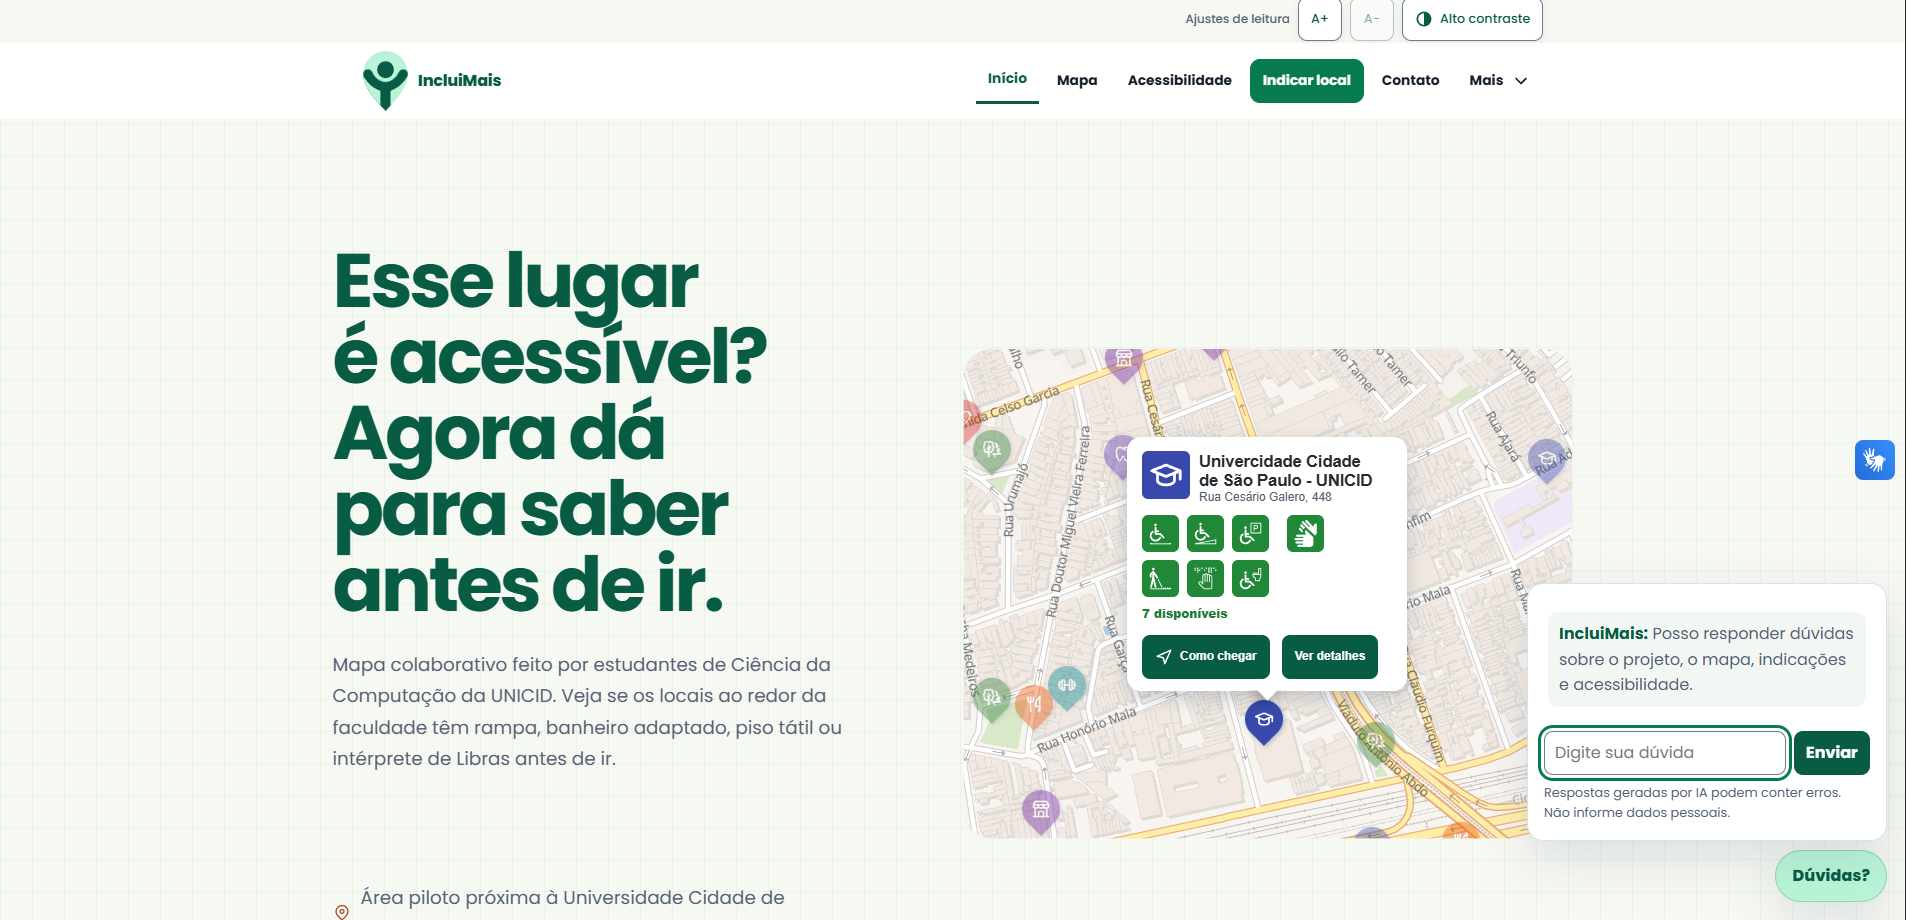
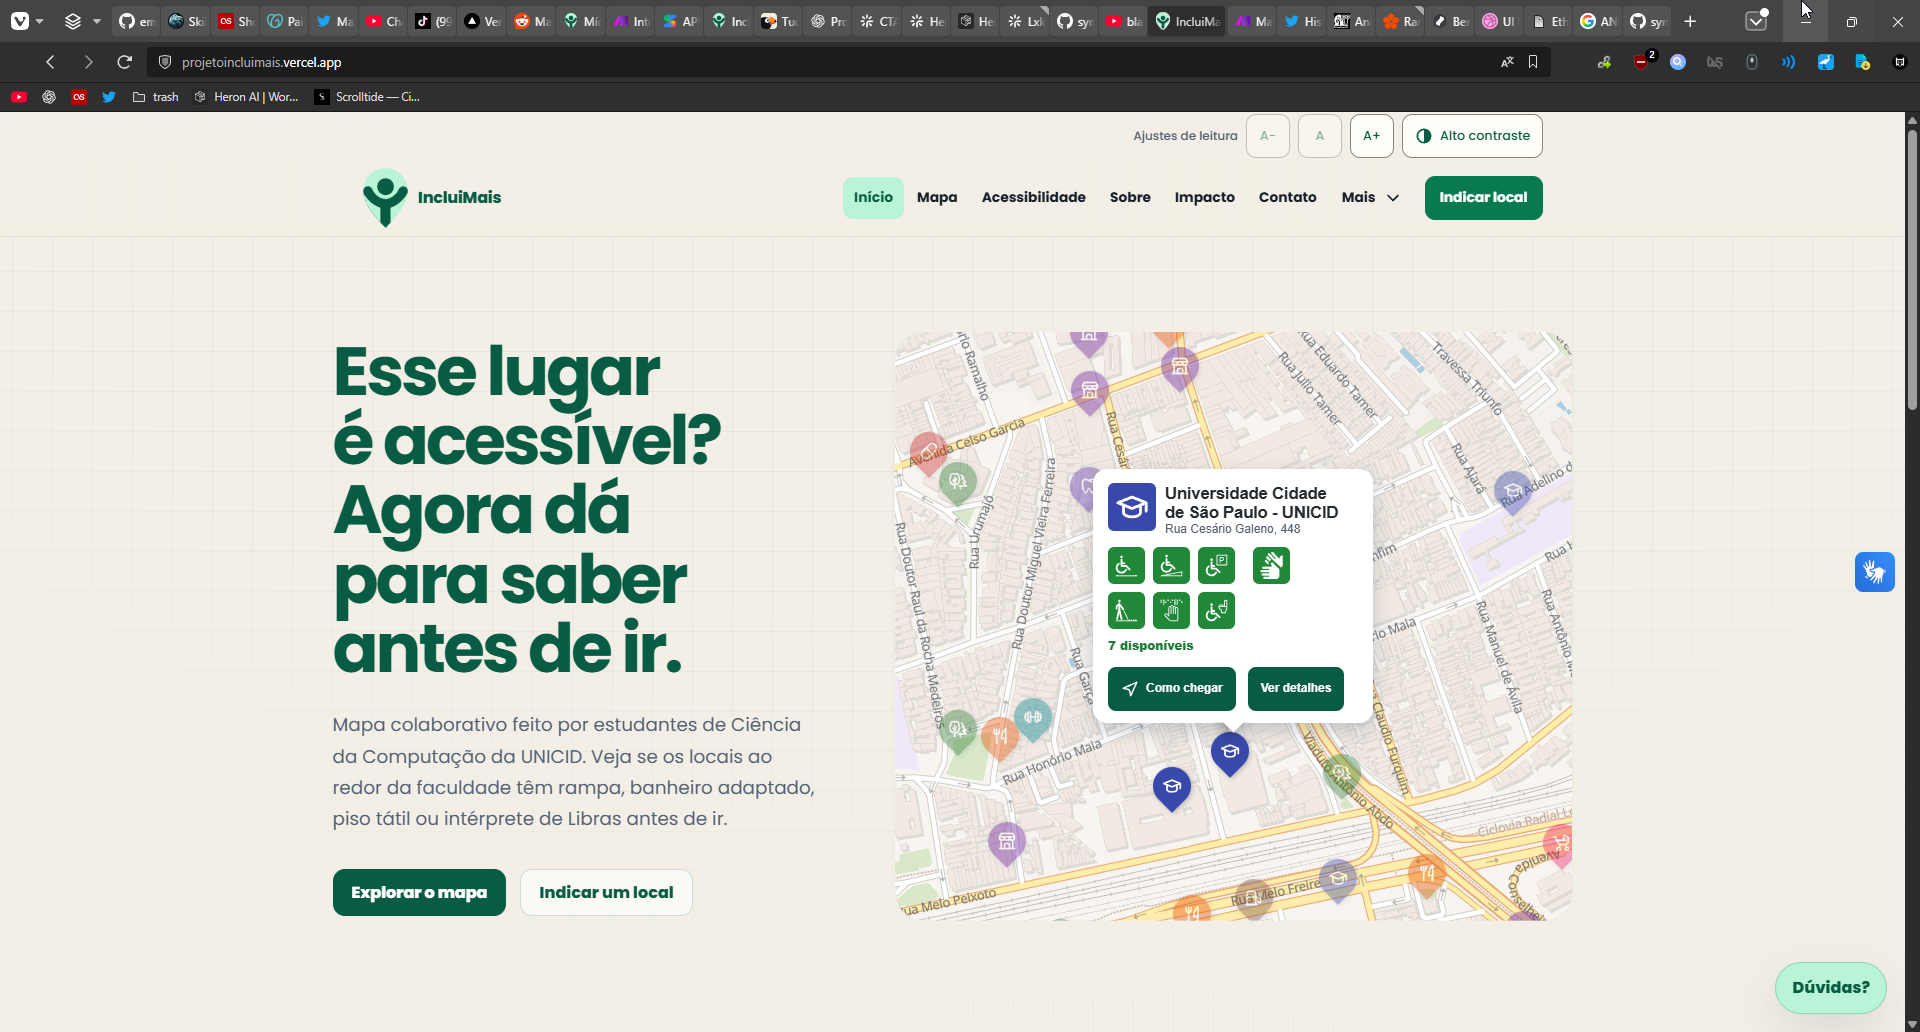
docs: prints atualizados e zoom mínimo do mapa um nível mais perto

diff --git a/js/script.js b/js/script.js
@@ -362,13 +362,13 @@ async function carregarLocaisOverpass() {
 // Retângulo que envolve todos os locais da área piloto (data/locais.json), com ~110 m de folga.
 const LIMITES_AREA = [[-23.5425, -46.5690], [-23.5279, -46.5514]];
 
-// Mantém a vista dentro da área dos locais. O zoom mínimo é o que faz a área
-// inteira caber na tela, então não dá para afastar até ver a cidade toda.
+// Mantém a vista dentro da área dos locais. O zoom mínimo fica um nível acima do que
+// faria a área inteira caber na tela, para não afastar demais.
 function configurarLimiteDaArea() {
   const limites = L.latLngBounds(LIMITES_AREA);
   mapa.setMaxBounds(limites);
   const ajustarZoomMinimo = () => {
-    mapa.setMinZoom(Math.min(mapa.getBoundsZoom(limites), mapa.getMaxZoom()));
+    mapa.setMinZoom(Math.min(mapa.getBoundsZoom(limites) + 1, mapa.getMaxZoom()));
   };
   ajustarZoomMinimo();
   mapa.on("resize", ajustarZoomMinimo);

diff --git a/mapa.html b/mapa.html
@@ -127,7 +127,7 @@
     <script src="https://unpkg.com/leaflet@1.9.4/dist/leaflet.js" integrity="sha256-20nQCchB9co0qIjJZRGuk2/Z9VM+kNiyxNV1lvTlZBo=" crossorigin=""></script>
     <script src="https://unpkg.com/maplibre-gl@5/dist/maplibre-gl.js"></script>
     <script src="https://unpkg.com/@maplibre/maplibre-gl-leaflet/leaflet-maplibre-gl.js"></script>
-    <script type="module" src="js/script.js?v=20261109-popup"></script>
+    <script type="module" src="js/script.js?v=20261109-zoommin"></script>
     <script src="js/site.js?v=20261109-mapfix"></script>
   </body>
 </html>

diff --git a/docs/testes.md b/docs/testes.md
@@ -71,7 +71,7 @@ Informado pela equipe: e-mail inválido no Contato mostra “Informe um e-mail v
 
 | Tela | Resultado | Evidência |
 |---|---|---|
-| Home no computador | Título, mapa e menu visíveis; chatbot aberto no print | [print](evidencias/home-desktop.png) |
+| Home no computador | Título, mapa e menu visíveis, com o endereço da Vercel na barra do navegador | [print](evidencias/home-desktop.png), [sem a barra](evidencias/home-desktop-2.png) |
 | Home no celular | Layout em uma coluna, com menu recolhido | [print](evidencias/home-celular.png) |
 | Mapa no celular | Mapa no topo com um local selecionado e o cartão de recursos; busca e filtros abaixo | [print](evidencias/celular-mapa-local.png) |
 | Mídia no celular | Vídeo com controles e descrição em texto, sem rolagem lateral | [print](evidencias/celular-midia.png) |
@@ -110,7 +110,7 @@ Lighthouse 13.4.1, em 09/11/2026, no site publicado já com as correções. A au
 | Cartão de um local sem recursos disponíveis mostrava os 7 ícones numa fila única, com o último cortado, diferente do cartão da UNICID | Ícones sempre nos mesmos 3 grupos, seja qual for o estado; versão do script atualizada para evitar cache | Corrigido localmente, falta publicar |
 | Selo redondo com “×” ou “?” sobre os ícones poluía o cartão | Selo removido; o estado aparece pela cor do ícone e fica no `aria-label` e no `title` | Corrigido localmente, falta publicar |
 | Mapa abria afastado demais para ler marcadores e ruas | Zoom inicial e máximo passaram de 19 para 20 | Corrigido localmente, falta publicar |
-| Não era possível chegar a locais como os Oxxo e os Terminais Carrão, porque o centro do mapa só andava 100 m e o zoom mínimo era 17 | A navegação passou a ficar presa a um retângulo em volta de todos os locais, com o zoom mínimo calculado para a área caber na tela (sem afastar até a cidade toda) | Corrigido localmente, falta publicar |
+| Não era possível chegar a locais como os Oxxo e os Terminais Carrão, porque o centro do mapa só andava 100 m e o zoom mínimo era 17 | A navegação passou a ficar presa a um retângulo em volta de todos os locais, com o zoom mínimo um nível acima do que faria a área inteira caber na tela (sem afastar até a cidade toda) | Corrigido localmente, falta publicar |
 | Cartão de um local na borda do mapa ficava cortado, porque o mapa não pode se mover para fora da área | O cartão passou a abrir do lado com espaço (abaixo, acima, à esquerda ou à direita do marcador); testado no navegador com locais no topo, no meio e na borda direita | Corrigido localmente, falta publicar |
 | Só um dos dois prédios da UNICID aparecia no mapa, porque o código juntava instituições de mesmo nome | O segundo prédio recebeu o endereço Rua Cesário Galeno, 475, e locais de mesmo nome com números diferentes deixaram de ser juntados; o mapa passou de 82 para 83 locais | Corrigido localmente, falta publicar |
 | Sustentabilidade/ODS presente em poucas páginas | Frase sobre as ODS 10 e 11 no rodapé, exceto em `mapa.html`, que não tem rodapé | Corrigido e publicado |

diff --git a/docs/README.md b/docs/README.md
@@ -55,7 +55,7 @@ O antigo mapa que estava no `index.html` foi transferido para `mapa.html`. O `in
 - Cartão do local com os 7 recursos sempre na mesma disposição (acesso: entrada, rampa e estacionamento; comunicação: Libras; orientação: piso tátil, braille e banheiro). O estado aparece pela cor: verde para disponível, vermelho para indisponível e cinza para não informado. O nome e o estado de cada recurso ficam no `aria-label` e no `title`.
 - O cartão abre do lado do marcador que tem espaço: acima (padrão), abaixo quando o marcador está perto do topo, à direita quando está perto da borda esquerda e à esquerda quando está perto da borda direita. A seta sempre aponta para o marcador (`posicionarPopup` em `js/script.js`).
 - A UNICID aparece com os dois prédios, um de cada lado da Rua Cesário Galeno (números 448 e 475). Locais com o mesmo nome e números de rua diferentes não são tratados como duplicados.
-- Zoom inicial do mapa em 20 (máximo 20), para os marcadores e nomes de rua ficarem legíveis na abertura. A navegação fica presa a um retângulo em volta de todos os locais da área piloto (`LIMITES_AREA` em `js/script.js`), e o zoom mínimo é calculado para esse retângulo caber na tela. Se forem adicionados locais fora dele, é preciso ampliar `LIMITES_AREA`.
+- Zoom inicial do mapa em 20 (máximo 20), para os marcadores e nomes de rua ficarem legíveis na abertura. A navegação fica presa a um retângulo em volta de todos os locais da área piloto (`LIMITES_AREA` em `js/script.js`), e o zoom mínimo fica um nível acima do que faria esse retângulo inteiro caber na tela, para os marcadores não ficarem pequenos demais. Se forem adicionados locais fora dele, é preciso ampliar `LIMITES_AREA`.
 - Menu responsivo compartilhado entre as páginas e rodapé gerado por JavaScript.
 - Atalhos para pular ao conteúdo, ao menu e ao rodapé.
 - Indicador de página atual com `aria-current`.
